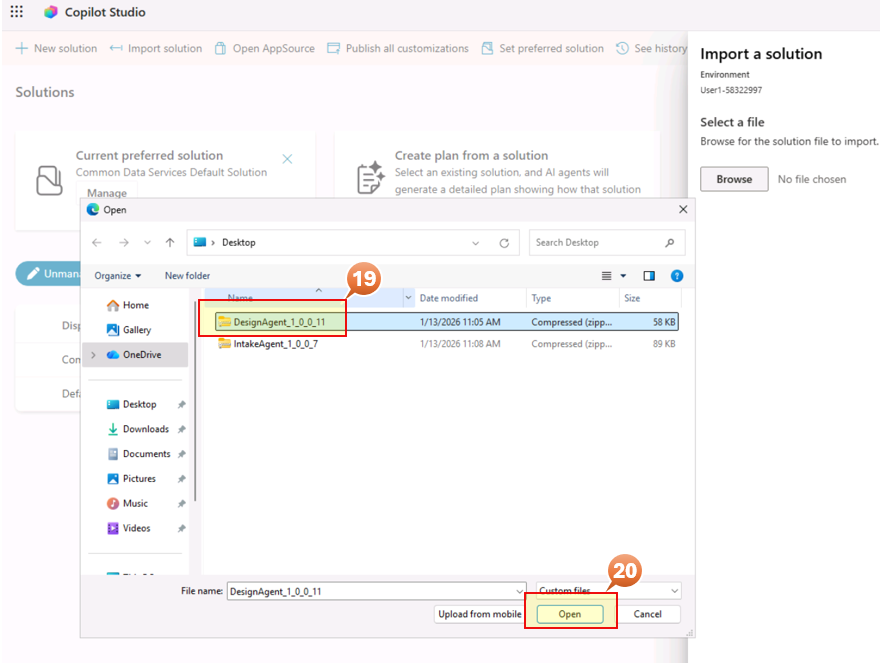
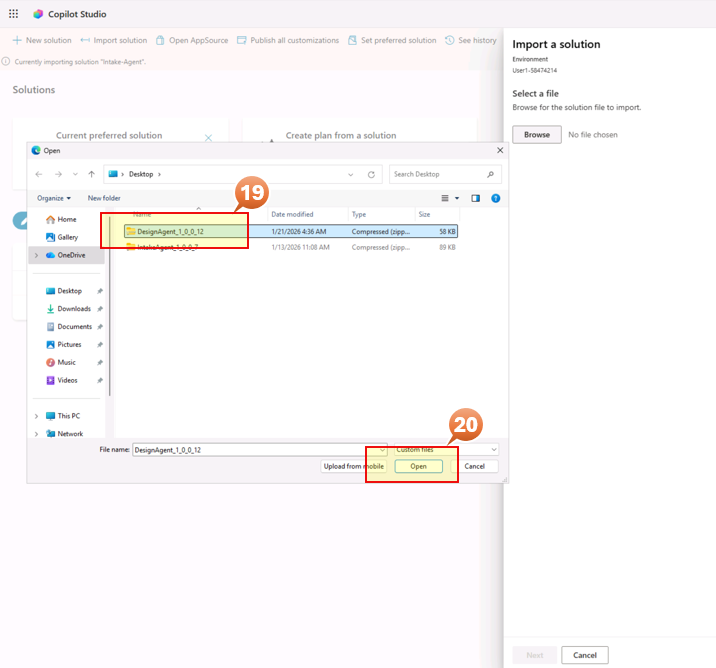
Modules 4, 5 and 9 updated

diff --git a/lab/instructions/module7-cost-estimation.md b/lab/instructions/module7-cost-estimation.md
@@ -23,7 +23,7 @@
     ![GenerativeAnswers](7.1_6-GenerativeAnswers.png)
 
 7. Click on the name and replace by **GenerateCostEstimation**
-8. Click on the three dots in the **Input** section
+8. Click on the **elipses (...)** in the **Input** section
 9. Add the following expression by clicking on the Formula tab 
 
         Topic.varApp & " " & Topic.varAzureResourceTable.Text.MarkdownContent
@@ -32,7 +32,7 @@
 
     ![Formula](7.1_9-Formula.png)
 
-10. Stay in the Node, click on **Properties**
+10. Stay in the Node, click on **elipses (...)** then **Properties**
 11. In the Properties Pane scroll down to **Content moderation level**, under **Customize**  insert the generative AI instruction. *(Copy/Paste the text below)* 
 
     ```yaml
@@ -107,6 +107,7 @@
 
     ![Variable](7.1_15-Variable.png)
 
+
 16. Close the Properties pane.
 
 Now let's update two nodes (*Set variable value* and *Message*) in this flow with this new variable
@@ -114,14 +115,14 @@ Now let's update two nodes (*Set variable value* and *Message*) in this flow wit
 - Set variable value
 
   1. In the Flow go to **Set variable value** Node (two nodes after the GenerateCostEstimation node recently created)
-  2. Click on the three dots in **To value** field into the **Set variable value** node
+  2. Click on the **elipses (...)** in **To value** field into the **Set variable value** node
   
       ![SetValue](7.1_16.1-SetValue.png)
   
   3. Expand the form and enter at the end of the formula
       
-      & Char(10) & Char(10)
-                        & Topic.varCostEstimate.Text.MarkdownContent
+        & Char(10) & Char(10)
+        & Topic.varCostEstimate.Text.MarkdownContent
       
   4. Click **Insert**
 
@@ -157,128 +158,101 @@ Now let's update two nodes (*Set variable value* and *Message*) in this flow wit
 
     ![Topics](7.2_2-Topics.png)
 
-3. Click on three dots first.
+3. Click on the **elipses (...)** first.
 4. Click on **"</> Open code editor"** to switch to YAML view. 
 
     ![CodeEditor](7.2_4-CodeEditor.png)
 
-5. Find the `GenerateAzureResourcesTable` section with 'Ctrl+F' to add the WAF Checklist action. (It would be in line 466)
+5. Find the `GenerateAzureResourcesTable` section with 'Ctrl+F' to add the WAF Checklist action.
 
     ![FindNode](7.2_5-FindNode.png)
 
-6. Scroll down to line 568 where the **GenerateAzureResourcesTable** block ends. Add 2 lines after line 567 and insert the code below into line 568
+6. Scroll down where the **GenerateAzureResourcesTable** block ends. Add 2 lines after and insert the code below
 
  ```yaml
-      - kind: SearchAndSummarizeContent
-        id: WAFCheck01
-        displayName: GenerateWAFChecklist
-        variable: Topic.varWAFChecklist
-        userInput: =Topic.varApp & " " & Topic.varIntakeText & " " & Topic.varAzureResourceTable.Text.MarkdownContent
-        additionalInstructions: |-
-          You are an Azure Well-Architected Framework (WAF) expert generating a compliance checklist.
+   - kind: SearchAndSummarizeContent
+      id: CostEst01
+      displayName: GenerateCostEstimation
+      variable: Topic.varCostEstimate
+      userInput: =Topic.varApp & " " & Topic.varAzureResourceTable.Text.MarkdownContent
+      additionalInstructions: |-
+        You are an Azure cost estimation expert generating a cost analysis section.
 
-          APPLICATION NAME: {Topic.varApp}
+        APPLICATION NAME: {Topic.varApp}
 
-          INTAKE DOCUMENT:
-          {Topic.varIntakeText}
+        AZURE RESOURCES IDENTIFIED:
+        {Topic.varAzureResourceTable.Text.MarkdownContent}
 
-          AZURE RESOURCES:
-          {Topic.varAzureResourceTable.Text.MarkdownContent}
+        Generate ONLY the Cost Estimation section.
 
-          Generate ONLY the WAF Compliance Checklist section.
+        COST ESTIMATION SECTION:
+        Use exact heading: ## 💰 Estimated Monthly Costs
 
-          Use exact heading: ## ✅ Well-Architected Framework Compliance Checklist
+        INSTRUCTIONS:
+        1. Analyze each Azure resource from the resource table
+        2. Provide estimated monthly cost ranges based on the SKU tiers identified
+        3. Group costs by category
 
-          ANALYZE the intake document and resource table against each WAF pillar.
-          Use these status indicators:
-          - ✅ Fully addressed in the design
-          - ⚠ Partially addressed or needs clarification
-          - ❌ Not addressed or missing
+        CREATE A COST TABLE:
+        | Category | Resource | SKU | Est. Monthly Cost (USD) |
+        |----------|----------|-----|-------------------------|
 
-          CREATE CHECKLIST FOR EACH PILLAR:
+        Include these categories:
+        - **Compute:** App Services, Functions, Container Apps
+        - **Data:** SQL Database, Cosmos DB, Storage Accounts
+        - **Networking:** Front Door, Firewall, Private Link, Bandwidth
+        - **Security:** Key Vault, WAF, DDoS Protection
+        - **Monitoring:** Application Insights, Log Analytics, Sentinel
 
-          ### 🛡 Reliability
-          Evaluate and list 5 items with status indicators:
-          - Multi-region deployment configured
-          - Failover strategy defined (active-passive or active-active)
-          - RTO and RPO requirements documented
-          - Health probes and monitoring configured
-          - Backup and disaster recovery plan included
+        AFTER THE TABLE ADD:
 
-          ### 🔐 Security
-          Evaluate and list 5 items with status indicators:
-          - Zero Trust architecture principles applied
-          - Network segmentation with NSGs and Firewall
-          - Data encryption at rest and in transit
-          - Identity management with Azure AD or B2C
-          - Secrets management using Key Vault
-          - Threat detection with Sentinel or Defender
+        ### 📊 Cost Summary
+        - **Estimated Monthly Total:** $X,XXX - $X,XXX
+        - **Estimated Annual Total:** $XX,XXX - $XX,XXX
 
-          ### ⚡ Performance Efficiency
-          Evaluate and list 5 items with status indicators:
-          - Auto-scaling configuration defined
-          - Caching strategy for frequently accessed data
-          - CDN or Front Door for global user access
-          - Database tier appropriate for expected load
-          - Async processing for heavy or batch workloads
+        ### 💡 Cost Optimization Recommendations
+        Add 3-4 bullet points with cost-saving recommendations such as:
+        - Reserved Instances for predictable workloads
+        - Auto-scaling policies to reduce off-peak costs
+        - Lifecycle policies for storage
+        - Right-sizing based on actual usage
 
-          ### 💵 Cost Optimization
-          Evaluate and list 5 items with status indicators:
-          - Right-sized SKUs based on requirements
-          - Reserved capacity opportunities identified
-          - Auto-shutdown policies for non-production
-          - Storage tiering and lifecycle policies
-          - Cost monitoring and alerting configured
+        PRICING GUIDELINES (use these estimates):
+        - App Service P2v2: $150-200/month per instance
+        - App Service P3v2: $300-400/month per instance
+        - SQL Database Business Critical: $400-800/month
+        - SQL Database Standard: $150-300/month
+        - Event Hubs Standard: $20-50/month per TU
+        - Event Hubs Premium: $100-200/month per PU
+        - Key Vault Standard: $0.03 per 10,000 operations
+        - Application Insights: $2.30 per GB ingested
+        - Log Analytics: $2.76 per GB ingested
+        - Azure Firewall Standard: $900-1,100/month
+        - Azure Firewall Premium: $1,500-1,800/month
+        - Front Door Standard: $35/month + $0.01/request
+        - Front Door Premium: $330/month + usage
+        - Azure Sentinel: $2.46 per GB analyzed
+        - Storage Account (Hot): $0.018 per GB/month
+        - Data Lake Storage: $0.02 per GB/month
 
-          ### 🔧 Operational Excellence
-          Evaluate and list 5 items with status indicators:
-          - Centralized logging with Log Analytics
-          - Application performance monitoring with App Insights
-          - Alerting rules and dashboards defined
-          - Infrastructure as Code for deployments
-          - Runbooks for common operational tasks
-
-          AFTER THE CHECKLISTS ADD:
-
-          ### 📊 Compliance Summary Table
-
-          | Pillar | Status | Items Addressed | Score |
-          |--------|--------|-----------------|-------|
-          | Reliability | ✅/⚠/❌ | X of 5 | X/5 |
-          | Security | ✅/⚠/❌ | X of 6 | X/6 |
-          | Performance | ✅/⚠/❌ | X of 5 | X/5 |
-          | Cost Optimization | ✅/⚠/❌ | X of 5 | X/5 |
-          | Operational Excellence | ✅/⚠/❌ | X of 5 | X/5 |
-          | **Overall WAF Score** | | | **X/26** |
-
-          STATUS DETERMINATION:
-          - ✅ if score is 80% or higher
-          - ⚠ if score is 50-79%
-          - ❌ if score is below 50%
-
-          ### 🎯 Priority Recommendations
-
-          List the top 3-5 items that need immediate attention before architecture approval.
-          Format as numbered list with brief explanation for each.
-
-          Add citation [1] at end.
-        fileSearchDataSource:
-          searchFilesMode:
-            kind: SearchAllFiles
-        knowledgeSources:
-          kind: SearchAllKnowledgeSources
-        responseCaptureType: FullResponse
-```
+        Add citation [1] at end.
+      fileSearchDataSource:
+        searchFilesMode:
+          kind: SearchAllFiles
+      knowledgeSources:
+        kind: SearchAllKnowledgeSources
+      responseCaptureType: FullResponse
+``` 
 
 ![Line568](7.2_6-Line568.png)
 
-7. Find the `sendActivity_displayOnly` section with 'Ctrl+F' to add the WAF Checklist action. (It would be in line 466)
+7. Find the `sendActivity_displayOnly` section with 'Ctrl+F' to add the WAF Checklist action.
 
     ![FindNode](7.2_7-FindNode.png)
 
-8. Scroll down to line 666 where the **sendActivity_displayOnly** block ends. Add 1 lines after line 666 and insert the code below into line 667
+8. Scroll down where the **sendActivity_displayOnly** block ends . Add 2 lines after insert the code below
 
-                  {Topic.varWAFChecklist.Text.MarkdownContent}
+                    {Topic.varWAFChecklist.Text.MarkdownContent}
 
 9. Save
 

diff --git a/lab/instructions/module9-publishing-to-channels.md b/lab/instructions/module9-publishing-to-channels.md
@@ -30,8 +30,6 @@ Before publishing to any channel, you must first publish the agent:
 
 >  **Important:** You must republish the agent whenever you make changes to topics, knowledge, or settings.
 
-   *Let's publish the Design agent into Microsoft 365 Copilot and/or Demo Website* 
-
 ## Step 9.3: Publish to Microsoft 365 Copilot
 
 For organizations with Microsoft 365 Copilot, the Design Agent can be integrated as a plugin.
@@ -39,25 +37,18 @@ For organizations with Microsoft 365 Copilot, the Design Agent can be integrated
 ### 9.3.1 Enable Copilot Integration
 
 1. Go to **Channels** > **Microsoft 365 Copilot**
-2. Click **Enable**
-3. Configure plugin settings:
-   - Plugin name: "Design Agent"
-   - Description: "Generate Azure architectures"
-   - Trigger phrases: "design architecture", "generate Azure design"
+2. Click **Teams and Microsfot 365 Copilot**
+3. Keep checked *Make agent available in Microosft 365 Copilot*
+4. Click on **See agent in Microsoft 365**
 
-### 9.3.2 User Access
+   ![PublishAgent](<9.3.1_4-PublishAgent in Microsoft 365.png>)
 
-Once enabled, users can invoke the Design Agent from Microsoft 365 Copilot:
+5. Click on **Add** to add the agent into M365 Copilot
 
-```
-User: @Design Agent generate an Azure architecture for the attached intake document
+   ![PublishAgentinM365Copilot](9.3.1_5-PublishAgentinM365Copilot.png)
 
-Copilot: I'll help you generate an Azure architecture. Let me connect you
-         with the Design Agent...
 
-Note: Use the sample document named "Intake.pdf" from the desktop
-
-```
+   *Note:* The agent will request to connect the connections
 
 ## Step 9.4: Publish to Demo Website
 

diff --git a/lab/instructions/module5-autonomous-agent-mode.md b/lab/instructions/module5-autonomous-agent-mode.md
@@ -125,7 +125,7 @@ We are ready to upload a document into SharePoint to make our Agent generates a 
     ![InvokeDesignAgentFlow](5.2_8-InvokeDesignAgentFlow.png)
 
 9. Navigate to the Overview tab on the top, go to **28-day run history**
-10. The status will be *Succeeded**. If it is **Running** then click on **Refresh**
+10. Click on **Refresh** until the status changes to *Succeeded*
 
     ![FlowStatus](5.2_10-FlowStatus.png)
 
@@ -136,7 +136,7 @@ We are ready to upload a document into SharePoint to make our Agent generates a 
     ![SaveDesignDocumentFlow](5.2_11-SaveDesignDocumentFlow.png)
 
 12. Navigate to the Overview tab on the top, go to **28-day run history**
-13. The status will be *Succeeded**. If it is **Running** then click on **Refresh**
+13. The status will be *Succeeded**. Click on **Refresh** until the status changes to *Succeeded*
 
     ![FlowStatus](5.2_13-FlowStatus.png)
 

diff --git a/lab/instructions/module4-design-agent-usage.md b/lab/instructions/module4-design-agent-usage.md
@@ -49,7 +49,7 @@ This module focuses on the **interactive** conversation-based approach, and auto
 
    `SmartLogistics`
 
-6. Attach the **Smart Logistics-Intake-2025-12-02.md** file from the Desktop.
+6. Attach the **Intake.md** file from the Desktop.
 
    You should see the agent start responding:
 
@@ -59,7 +59,7 @@ This module focuses on the **interactive** conversation-based approach, and auto
 
 8. Don't move away from the window until the response is completed.
 
-9. The The agent will generate a comprehensive architecture document with the following structure:
+9. The agent will generate a comprehensive architecture document with the following structure:
 
    ```
    📦 [AppName] — Target Azure Architecture Details

diff --git a/lab/instructions/module1-Solution-Import.md b/lab/instructions/module1-Solution-Import.md
@@ -40,10 +40,10 @@ Let's start with the **IntakeAgent_1_0_0_7** package
 
      ![Import](1.1_18-Import.png)
 
-Let's continue importing the **DesignAgent_1_0_0_11** package
+Let's continue importing the **DesignAgent_1_0_0_12** package
 *Execute the prior steps 12 and 13 again* and come back to *step 19*
 
-19. Select the zip file **DesignAgent_1_0_0_11.zip** solution package
+19. Select the zip file **DesignAgent_1_0_0_12.zip** solution package
 20. Click **Open**
 
      ![OpenSolutionPackage](1.1_19-OpenSolutionPackage.png)
